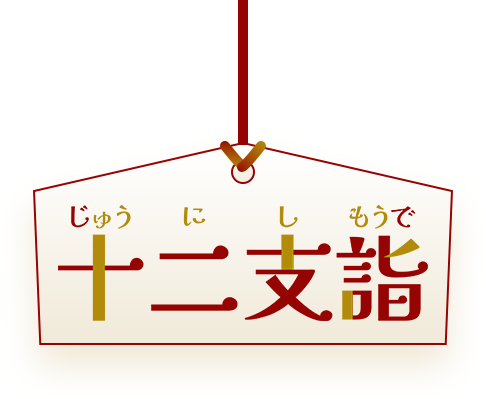
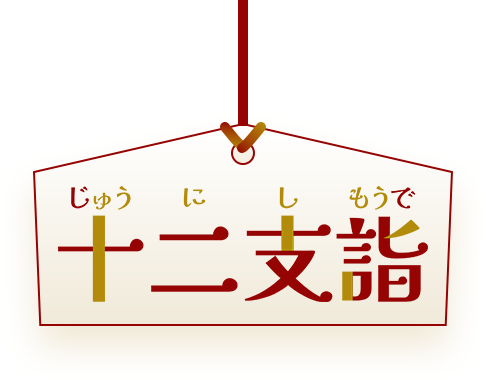
update: css

diff --git a/client/src/styles/style.css b/client/src/styles/style.css
@@ -191,7 +191,7 @@ h1 {
 
 .logo {
     position: fixed;
-    top: -0.8rem;
+    top: -1.2rem;
     right: 8vw;
     width: 18vw;
     max-width: 250px;
